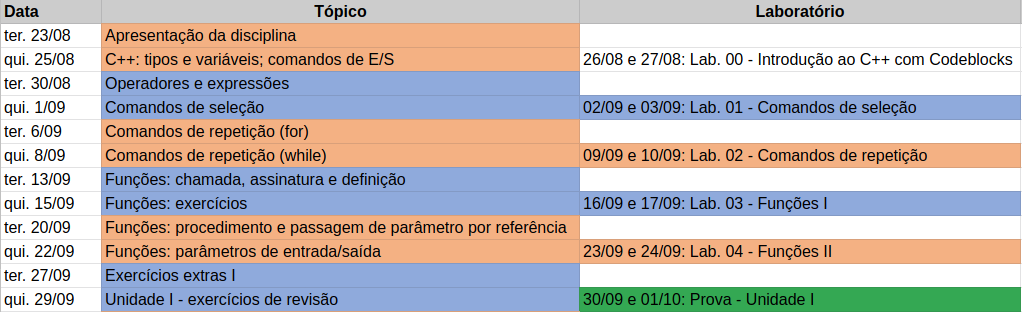
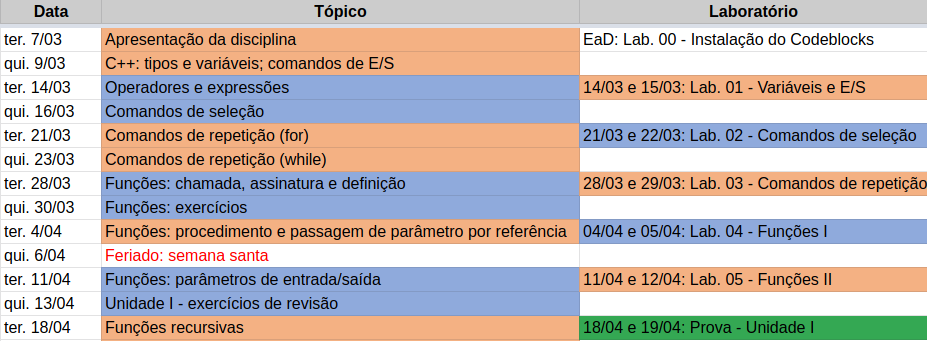
Slide teste atualizado após alteração do cronograma e formato Quarto Markdown.

diff --git a/docs/slides/01-intro/01-intro.html b/docs/slides/01-intro/01-intro.html
@@ -394,8 +394,8 @@ Prof.&nbsp;Bruno Silva
 <li>Atendimento:
 <ul>
 <li>Via email: bruno.silva@ect.ufrn.br</li>
-<li>Via <a href="https://discord.gg/JyxEvwKMbE">Discord</a></li>
-<li>Horário para a turma: terças e quintas, das 11h às 12h</li>
+<li>Via <a href="https://discord.gg/JtSUgFdmxd">Discord</a></li>
+<li>Horário para a turma: terças e quintas, das 9:30 às 10:30</li>
 </ul></li>
 <li>Áreas de interesse:
 <ul>
@@ -407,7 +407,7 @@ Prof.&nbsp;Bruno Silva
 <section id="sobre-a-disciplina" class="slide level2">
 <h2>Sobre a Disciplina</h2>
 <ul>
-<li>Aulas teóricas: terças e quintas, de 20:35 às 22:15, Sala 5 da ECT</li>
+<li>Aulas teóricas: terças e quintas, de 10:50 às 12:30, Auditório F da ECT</li>
 <li>Carga horária total: 90 horas
 <ul>
 <li>Teoria: 60 horas</li>
@@ -424,27 +424,17 @@ Prof.&nbsp;Bruno Silva
 <section id="laboratórios" class="slide level2">
 <h2>Laboratórios</h2>
 <ul>
-<li>Horários/professor:
-<ul>
-<li>Subturma 4A: Sexta, 14:55 às 16:35, Lab. 1 (Prof.&nbsp;Bruno)</li>
-<li>Subturma 4B: Sexta, 16:50 às 18:30, Lab. 1 (Prof.&nbsp;Bruno)</li>
-<li>Subturma 4C: Sábado, 10:50 às 12:30, Lab. 3 (Prof.&nbsp;Igor)</li>
-<li>Subturma 4D: Sábado, 13:00 às 14:40, Lab. 1 (Prof.&nbsp;Thales)</li>
-</ul></li>
+<li>Subturma 1A: Terça, 16:50 às 18:30, Lab. 3 (Prof.&nbsp;Bruno)</li>
+<li>Subturma 1B: Quarta, 14:55 às 16:35, Lab. 3 (Prof.&nbsp;Vidal)</li>
+<li>Subturma 1C: Quarta, 16:50 às 18:30, Lab. 3 (Prof.&nbsp;Vidal)</li>
 </ul>
 </section>
 <section id="avaliações" class="slide level2">
 <h2>Avaliações</h2>
 <ul>
-<li>Avaliação semanal:
-<ul>
-<li>Práticas de laboratório (30%)</li>
+<li>Práticas semanais no laboratório (30%)</li>
 <li>Prova prática em cada unidade (70%)</li>
-</ul></li>
-<li>Assiduidade
-<ul>
-<li>Presenças serão registradas por chamada oral em todas as aulas</li>
-</ul></li>
+<li>Presenças serão registradas por chamada em todas as aulas</li>
 </ul>
 </section>
 <section id="sobre-a-disciplina-observação-importante" class="slide level2">
@@ -461,22 +451,34 @@ Prof.&nbsp;Bruno Silva
 </section>
 <section id="cronograma" class="slide level2">
 <h2>Cronograma</h2>
-<h3 id="unidade-1">Unidade 1</h3>
+<h4 id="unidade-1">Unidade 1</h4>
 
-<img src="unidade1.png" width="800/" class="r-stretch"></section>
+<img data-src="unidade1.png" width="800" class="r-stretch"></section>
 <section id="cronograma-1" class="slide level2">
 <h2>Cronograma</h2>
 <h3 id="unidade-2">Unidade 2</h3>
 
-<img src="unidade2.png" width="800/" class="r-stretch"></section>
+<img data-src="unidade2.png" width="800" class="r-stretch"></section>
 <section id="cronograma-2" class="slide level2">
 <h2>Cronograma</h2>
 <h3 id="unidade-3">Unidade 3</h3>
 
-<img src="unidade3.png" width="800/" class="r-stretch"></section>
+<img data-src="unidade3.png" width="800" class="r-stretch"></section>
 <section id="livros-utilizados" class="slide level2">
 <h2>Livros Utilizados</h2>
-<p><img src="livro_lip_ect.png" width="200/"> <img src="livro1.png" width="180/"> <img src="livro2.png" width="180/"></p>
+<div class="quarto-layout-panel">
+<div class="quarto-layout-row quarto-layout-valign-top">
+<div class="quarto-layout-cell" style="flex-basis: 35.7%;justify-content: center;">
+<p><img data-src="livro_lip_ect.png" width="200"></p>
+</div>
+<div class="quarto-layout-cell" style="flex-basis: 32.1%;justify-content: center;">
+<p><img data-src="livro1.png" width="180"></p>
+</div>
+<div class="quarto-layout-cell" style="flex-basis: 32.1%;justify-content: center;">
+<p><img data-src="livro2.png" width="180"></p>
+</div>
+</div>
+</div>
 </section>
 <section id="perguntas-frequentes" class="slide level2">
 <h2>Perguntas Frequentes</h2>
@@ -495,7 +497,7 @@ Prof.&nbsp;Bruno Silva
 <section id="perguntas-frequentes-2" class="slide level2">
 <h2>Perguntas Frequentes</h2>
 <ul>
-<li><em>Posso utilizar o recurso XYZ (p.&nbsp;ex. vetores) em uma ativiadade, mesmo que ele ainda não tenha sido apresentado em sala de aula? E quanto a recursos não passados pelo professor?</em> Não. Todas as atividades avaliativas são elaboradas de forma que o aluno seja avaliado considerando o conteúdo que a ele foi passado até o momento da atividade.</li>
+<li><em>Posso utilizar o recurso XYZ (p.&nbsp;ex. vetores) em uma atividade, mesmo que ele ainda não tenha sido apresentado em sala de aula? E quanto a recursos não passados pelo professor?</em> Não. Todas as atividades avaliativas são elaboradas de forma que o aluno seja avaliado considerando o conteúdo que a ele foi passado até o momento da atividade.</li>
 </ul>
 </section>
 <section id="experiências-passadas-em-lip" class="slide level2">
@@ -507,7 +509,7 @@ Prof.&nbsp;Bruno Silva
 <li>Paradoxo: se o aluno não ouve o professor, ele também não irá ouvir esta afirmação e portanto, o problema não tem solução</li>
 <li>Por exemplo: quantos daqui ouviram os argumentos da importância de LiP?</li>
 </ul></li>
-<li>Aluno que não está com o preparo necessário para uma atividade</li>
+<li>Aluno que não estudou o suficiente para uma atividade</li>
 </ul>
 </section>
 <section id="experiências-passadas-em-lip-1" class="slide level2">
